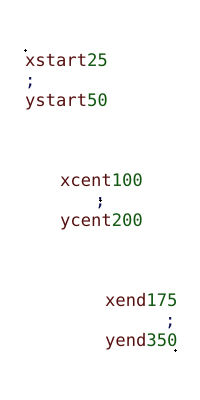
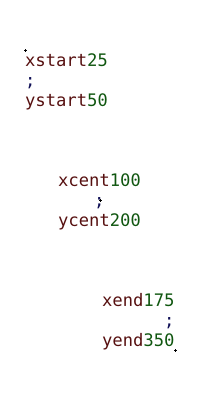
now possible to use any font and scale, corrected error when computing width of text

Changed region(s): [[0.3, 0.42, 0.72, 0.6], [0.51, 0.72, 0.9, 0.9]]

diff --git a/src/test/singleline_test.rs b/src/test/singleline_test.rs
@@ -22,8 +22,10 @@ use image::RgbImage;
 
 use imageproc::drawing::{draw_cross_mut, draw_filled_rect_mut, draw_line_segment_mut};
 use imageproc::rect::Rect;
+use rusttype::{Font, Scale};
 
 use crate::draw::single_line::{draw_line_of_colored_text, DrawCoord};
+use crate::test::font::DRAWING_GRAPHIC_FONT;
 use crate::ttp::TextToPrint;
 
 
@@ -42,6 +44,9 @@ const IMG_HEIGHT : u32 = 200;
 
 #[test]
 pub fn single_line_test() {
+    let font = Font::try_from_bytes(DRAWING_GRAPHIC_FONT).unwrap();
+    let scale = Scale{x:FONT_WIDTH,y:FONT_HEIGHT};
+
     let mut image = RgbImage::new( IMG_WIDTH, IMG_HEIGHT);
     draw_filled_rect_mut(&mut image,
                          Rect::at(0,0).of_size(IMG_WIDTH,IMG_HEIGHT),
@@ -57,10 +62,10 @@ pub fn single_line_test() {
                          TextToPrint::new(format!("{}",y), Rgb(DARK_GREEN))];
         let xpos = DrawCoord::CenteredAround( x as f32 );
         let ypos = DrawCoord::CenteredAround( y as f32 );
-        draw_line_of_colored_text(&mut image,&xpos,&ypos,&to_print,FONT_WIDTH,FONT_HEIGHT);
+        draw_line_of_colored_text(&mut image,&xpos,&ypos,&to_print,&font,&scale);
         draw_cross_mut(&mut image,Rgb(BLACK),x,y);
         // ***
-        let txt_width = TextToPrint::get_text_width(&to_print,FONT_WIDTH);
+        let txt_width = TextToPrint::get_text_width(&to_print,&font,&scale);
         draw_line_segment_mut(&mut image,
                               ((x as f32) - txt_width/2.0,y as f32),
                               ((x as f32) + txt_width/2.0,y as f32),
@@ -77,10 +82,10 @@ pub fn single_line_test() {
                          TextToPrint::new(format!("{}",y), Rgb(DARK_GREEN))];
         let xpos = DrawCoord::StartingAt( x as f32 );
         let ypos = DrawCoord::StartingAt( y as f32 );
-        draw_line_of_colored_text(&mut image,&xpos,&ypos,&to_print,FONT_WIDTH,FONT_HEIGHT);
+        draw_line_of_colored_text(&mut image,&xpos,&ypos,&to_print,&font,&scale);
         draw_cross_mut(&mut image,Rgb(BLACK),x,y);
         // ***
-        let txt_width = TextToPrint::get_text_width(&to_print,FONT_WIDTH);
+        let txt_width = TextToPrint::get_text_width(&to_print,&font,&scale);
         draw_line_segment_mut(&mut image,
                               (x as f32,y as f32),
                               ((x as f32) + txt_width,y as f32),
@@ -97,10 +102,10 @@ pub fn single_line_test() {
                          TextToPrint::new(format!("{}",y), Rgb(DARK_GREEN))];
         let xpos = DrawCoord::EndingAt( x as f32 );
         let ypos = DrawCoord::EndingAt( y as f32 );
-        draw_line_of_colored_text(&mut image,&xpos,&ypos,&to_print,FONT_WIDTH,FONT_HEIGHT);
+        draw_line_of_colored_text(&mut image,&xpos,&ypos,&to_print,&font,&scale);
         draw_cross_mut(&mut image,Rgb(BLACK),x,y);
         // ***
-        let txt_width = TextToPrint::get_text_width(&to_print,FONT_WIDTH);
+        let txt_width = TextToPrint::get_text_width(&to_print,&font,&scale);
         draw_line_segment_mut(&mut image,
                               ((x as f32) - txt_width,y as f32),
                               (x as f32,y as f32),
@@ -108,7 +113,7 @@ pub fn single_line_test() {
     }
 
     // ***
-    let path_buf : PathBuf = ["c:\\", "Users", "EM244186", "IdeaProjects", "colored_text", "single_line_test.png"].iter().collect();
+    let path_buf : PathBuf = ["c:\\", "Users", "ErwanMahe", "IdeaProjects", "image_colored_text", "single_line_test.png"].iter().collect();
     image.save(path_buf.as_path()).unwrap();
 }
 

diff --git a/src/draw/single_line.rs b/src/draw/single_line.rs
@@ -14,12 +14,11 @@ See the License for the specific language governing permissions and
 limitations under the License.
 */
 
+use rusttype::{Font, Scale};
 use image::RgbImage;
 use imageproc::drawing::draw_text_mut;
-use rusttype::{Font, Scale};
 
 
-use crate::font::DRAWING_GRAPHIC_FONT;
 use crate::ttp::TextToPrint;
 
 
@@ -31,20 +30,20 @@ pub enum DrawCoord {
 
 
 pub fn draw_line_of_colored_text(image: &mut RgbImage,
-                         x_pos : &DrawCoord,
-                         y_pos : &DrawCoord,
-                         to_print : &Vec<TextToPrint>,
-                         font_width : f32,
-                         font_height : f32) {
+                                 x_pos : &DrawCoord,
+                                 y_pos : &DrawCoord,
+                                 to_print : &Vec<TextToPrint>,
+                                 font: &Font,
+                                 scale: &Scale) {
     // ***
     let adjusted_x_pos : i32;
     match x_pos {
         DrawCoord::CenteredAround( x ) => {
-            let text_width = TextToPrint::get_text_width(&to_print,font_width);
+            let text_width = TextToPrint::get_text_width(&to_print, font, scale);
             adjusted_x_pos = (x-(text_width/2.0)) as i32;
         },
         DrawCoord::EndingAt( x ) => {
-            let text_width = TextToPrint::get_text_width(&to_print,font_width);
+            let text_width = TextToPrint::get_text_width(&to_print, font, scale);
             adjusted_x_pos = (x-text_width) as i32;
         },
         DrawCoord::StartingAt(x) => {
@@ -54,9 +53,11 @@ pub fn draw_line_of_colored_text(image: &mut RgbImage,
     let adjusted_y_pos : i32;
     match y_pos {
         DrawCoord::CenteredAround( y ) => {
+            let font_height = TextToPrint::get_text_height(font,scale);
             adjusted_y_pos = (y-(font_height/2.0)) as i32;
         },
         DrawCoord::EndingAt( y ) => {
+            let font_height = TextToPrint::get_text_height(font,scale);
             adjusted_y_pos = (y-font_height) as i32;
         },
         DrawCoord::StartingAt(y) => {
@@ -65,9 +66,6 @@ pub fn draw_line_of_colored_text(image: &mut RgbImage,
     }
     // ***
     {
-        let font = Font::try_from_bytes(DRAWING_GRAPHIC_FONT).unwrap();
-        let scale = Scale { x: font_width, y: font_height };
-        // ***
         let mut char_count : usize = 0;
         for txt_to_print in to_print {
             let mut my_text : String = (0..char_count).map(|_| " ").collect::<String>();
@@ -76,7 +74,7 @@ pub fn draw_line_of_colored_text(image: &mut RgbImage,
                           txt_to_print.color,
                           adjusted_x_pos,
                           adjusted_y_pos,
-                          scale,
+                          scale.clone(),
                           &font,
                           &my_text
             );

diff --git a/src/test/multiline_test.rs b/src/test/multiline_test.rs
@@ -22,9 +22,11 @@ use image::RgbImage;
 
 use imageproc::drawing::{draw_cross_mut, draw_filled_rect_mut};
 use imageproc::rect::Rect;
+use rusttype::{Font, Scale};
 
 use crate::draw::multi_line::{draw_multiline_colored_text, MultiLineTextAlignment};
 use crate::draw::single_line::DrawCoord;
+use crate::test::font::DRAWING_GRAPHIC_FONT;
 use crate::ttp::TextToPrint;
 
 
@@ -46,6 +48,9 @@ const IMG_HEIGHT : u32 = 400;
 
 #[test]
 pub fn multi_line_test() {
+    let font = Font::try_from_bytes(DRAWING_GRAPHIC_FONT).unwrap();
+    let scale = Scale{x:FONT_WIDTH,y:FONT_HEIGHT};
+
     let mut image = RgbImage::new( IMG_WIDTH, IMG_HEIGHT);
     draw_filled_rect_mut(&mut image,
                          Rect::at(0,0).of_size(IMG_WIDTH,IMG_HEIGHT),
@@ -61,7 +66,7 @@ pub fn multi_line_test() {
         ];
         let xpos = DrawCoord::CenteredAround( x as f32 );
         let ypos = DrawCoord::CenteredAround( y as f32 );
-        draw_multiline_colored_text(&mut image,&xpos,&ypos,&MultiLineTextAlignment::Center, &to_print,FONT_WIDTH,FONT_HEIGHT);
+        draw_multiline_colored_text(&mut image,&xpos,&ypos,&MultiLineTextAlignment::Center, &to_print,&font,&scale);
         draw_cross_mut(&mut image,Rgb(BLACK),x,y);
     }
 
@@ -75,7 +80,7 @@ pub fn multi_line_test() {
         ];
         let xpos = DrawCoord::StartingAt( x as f32 );
         let ypos = DrawCoord::StartingAt( y as f32 );
-        draw_multiline_colored_text(&mut image,&xpos,&ypos,&MultiLineTextAlignment::Left,&to_print,FONT_WIDTH,FONT_HEIGHT);
+        draw_multiline_colored_text(&mut image,&xpos,&ypos,&MultiLineTextAlignment::Left,&to_print,&font,&scale);
         draw_cross_mut(&mut image,Rgb(BLACK),x,y);
     }
 
@@ -89,12 +94,12 @@ pub fn multi_line_test() {
         ];
         let xpos = DrawCoord::EndingAt( x as f32 );
         let ypos = DrawCoord::EndingAt( y as f32 );
-        draw_multiline_colored_text(&mut image,&xpos,&ypos,&MultiLineTextAlignment::Right, &to_print,FONT_WIDTH,FONT_HEIGHT);
+        draw_multiline_colored_text(&mut image,&xpos,&ypos,&MultiLineTextAlignment::Right, &to_print,&font,&scale);
         draw_cross_mut(&mut image,Rgb(BLACK),x,y);
     }
 
     // ***
-    let path_buf : PathBuf = ["c:\\", "Users", "EM244186", "IdeaProjects", "colored_text", "multi_line_test.png"].iter().collect();
+    let path_buf : PathBuf = ["c:\\", "Users", "ErwanMahe", "IdeaProjects", "image_colored_text", "multi_line_test.png"].iter().collect();
     image.save(path_buf.as_path()).unwrap();
 }
 

diff --git a/src/draw/multi_line.rs b/src/draw/multi_line.rs
@@ -14,7 +14,7 @@ See the License for the specific language governing permissions and
 limitations under the License.
 */
 
-
+use rusttype::{Font, Scale};
 use image::RgbImage;
 
 
@@ -35,9 +35,10 @@ pub fn draw_multiline_colored_text(image: &mut RgbImage,
                                    y_pos : &DrawCoord,
                                    alignment : &MultiLineTextAlignment,
                                    to_print : &Vec<Vec<TextToPrint>>,
-                                   font_width : f32,
-                                   font_height : f32) {
+                                   font: &Font,
+                                   scale: &Scale) {
     // ***
+    let font_height = TextToPrint::get_text_height(font,scale);
     let adjusted_first_line_y_pos : f32;
     match y_pos {
         DrawCoord::CenteredAround( y ) => {
@@ -53,9 +54,10 @@ pub fn draw_multiline_colored_text(image: &mut RgbImage,
         }
     }
     // ***
-    let max_text_width : f32 = to_print.iter().fold(0.0,
-                                                    |prev,ttp|
-                                                        prev.max(TextToPrint::get_text_width(ttp,font_width)));
+    let max_text_width : f32 = to_print.iter()
+        .fold(0.0,
+              |prev,ttp|
+                  prev.max(TextToPrint::get_text_width(ttp,font, scale)));
     let adjusted_left_x_pos : f32;
     match x_pos {
         DrawCoord::CenteredAround( x ) => {
@@ -87,7 +89,7 @@ pub fn draw_multiline_colored_text(image: &mut RgbImage,
                 ttp_x_pos = DrawCoord::CenteredAround(adjusted_left_x_pos + (max_text_width/2.0));
             }
         }
-        draw_line_of_colored_text(image,&ttp_x_pos,&ttp_y_pos,ttp,font_width,font_height);
+        draw_line_of_colored_text(image,&ttp_x_pos,&ttp_y_pos,ttp,font,scale);
     }
 
 }

diff --git a/src/ttp.rs b/src/ttp.rs
@@ -14,7 +14,7 @@ See the License for the specific language governing permissions and
 limitations under the License.
 */
 
-
+use rusttype::{point, Font, Scale};
 use image::Rgb;
 
 
@@ -47,8 +47,23 @@ impl TextToPrint {
         return count;
     }
 
-    pub fn get_text_width(to_print : &Vec<TextToPrint>, font_width : f32) -> f32 {
-        return (TextToPrint::char_count(&to_print) as f32)*font_width/2.0;
+    pub fn get_text_width(to_print : &Vec<TextToPrint>,
+                          font: &Font,
+                          scale: &Scale) -> f32 {
+        let flattened = Self::flatten(to_print);
+        let width = font
+            .layout(&flattened, scale.clone(), point(0.0, 0.0))
+            .map(|g| g.position().x + g.unpositioned().h_metrics().advance_width)
+            .last()
+            .unwrap_or(0.0);
+        return width;
+    }
+
+    pub fn get_text_height(font: &Font,
+                           scale: &Scale) -> f32 {
+        let v_metrics = font.v_metrics(scale.clone());
+        let height = v_metrics.ascent - v_metrics.descent + v_metrics.line_gap;
+        return height;
     }
 
 }

diff --git a/src/test/mod.rs b/src/test/mod.rs
@@ -14,6 +14,9 @@ See the License for the specific language governing permissions and
 limitations under the License.
 */
 
+
 mod singleline_test;
 
 mod multiline_test;
+
+pub mod font;

diff --git a/src/lib.rs b/src/lib.rs
@@ -16,7 +16,6 @@ limitations under the License.
 
 
 
-mod font;
 pub mod ttp;
 pub mod draw;
 

diff --git a/README.md b/README.md
@@ -14,7 +14,7 @@ with different options on how to use this position:
 - in the second the text is centered around the anchor
 - in the third example, it is written above and on the left
 
-The horizontal lines correspond to the expected width of the text (I imagine there are approximation errors due to type conversions between ints and floats).
+The horizontal lines correspond to the expected width of the text.
 
 <img src="./README_images/single_line_test.png" alt="drawing single line colored text">
 
